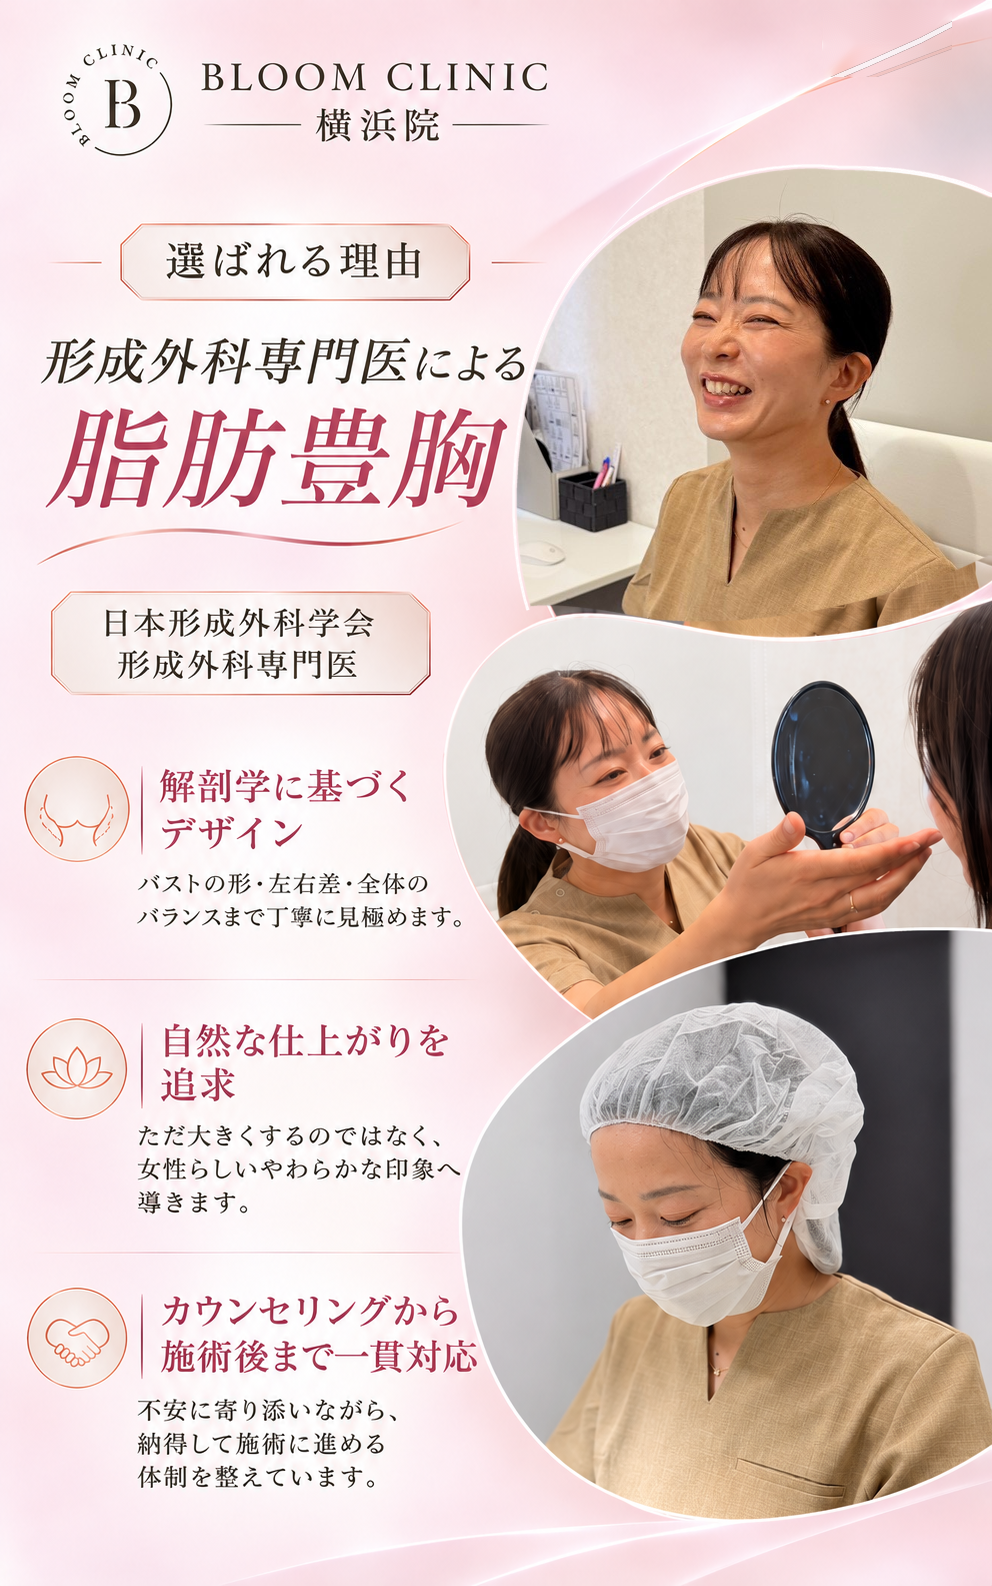
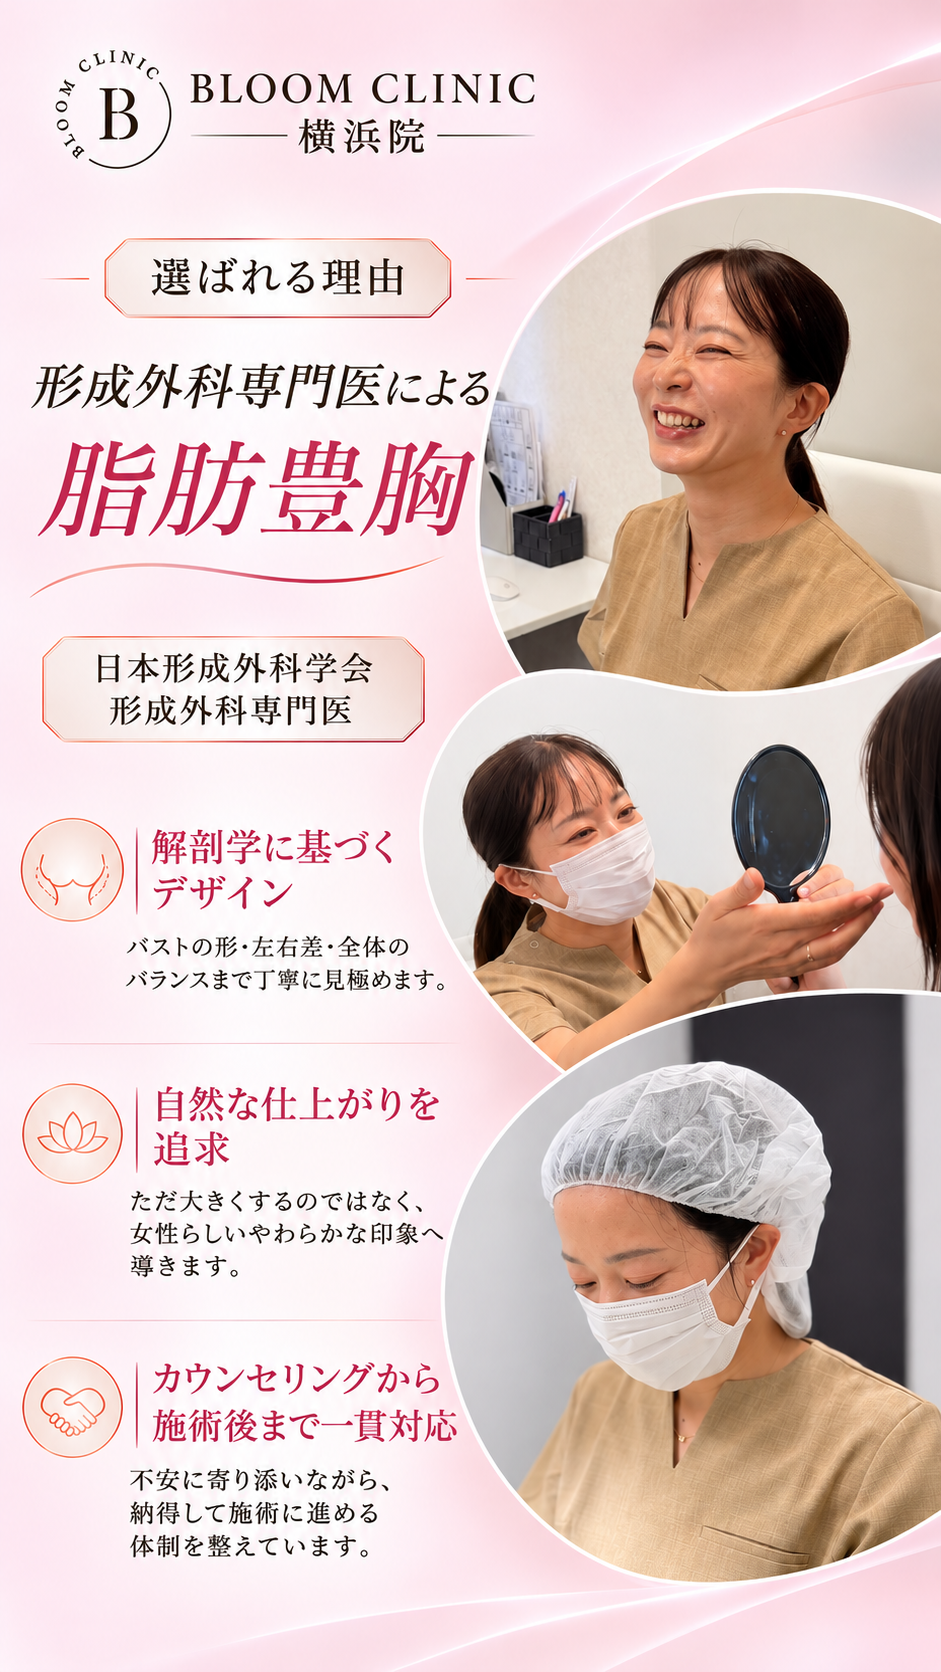
fix: 5・7枚目を正しいサイズ(941×1672)に差し替え、ずれ解消

diff --git a/index.html b/index.html
@@ -29,14 +29,14 @@
         <section class="slide" aria-roledescription="スライド" aria-label="4 / 8">
           <img src="./assets/slide08.png" width="2823" height="5016" alt="症例紹介 02 脂肪豊胸" decoding="async" loading="lazy" draggable="false">
         </section>
-        <section class="slide slide-contain" aria-roledescription="スライド" aria-label="5 / 8">
-          <img src="./assets/slide03.png" width="992" height="1586" alt="選ばれる理由" decoding="async" loading="lazy" draggable="false">
+        <section class="slide" aria-roledescription="スライド" aria-label="5 / 8">
+          <img src="./assets/slide03.png" width="941" height="1672" alt="選ばれる理由" decoding="async" loading="lazy" draggable="false">
         </section>
         <section class="slide" aria-roledescription="スライド" aria-label="6 / 8">
           <img src="./assets/slide04.png" width="941" height="1672" alt="施術の流れ" decoding="async" loading="lazy" draggable="false">
         </section>
-        <section class="slide slide-contain" aria-roledescription="スライド" aria-label="7 / 8">
-          <img src="./assets/slide05.png" width="2048" height="3072" alt="料金案内" decoding="async" loading="lazy" draggable="false">
+        <section class="slide" aria-roledescription="スライド" aria-label="7 / 8">
+          <img src="./assets/slide05.png" width="941" height="1672" alt="料金案内" decoding="async" loading="lazy" draggable="false">
         </section>
         <section class="slide" aria-roledescription="スライド" aria-label="8 / 8">
           <img src="./assets/slide06.png" width="941" height="1672" alt="院長紹介 小川 真里奈" decoding="async" loading="lazy" draggable="false">

diff --git a/style.css b/style.css
@@ -69,11 +69,6 @@ body {
   object-fit: cover;
   object-position: center top;
 }
-/* 縦横比が標準と異なるスライドはcontainでずれを防ぐ */
-.slide-contain img {
-  object-fit: contain;
-  background: #f7eaec;
-}
 
 /* ページカウンター */
 .page-count {
